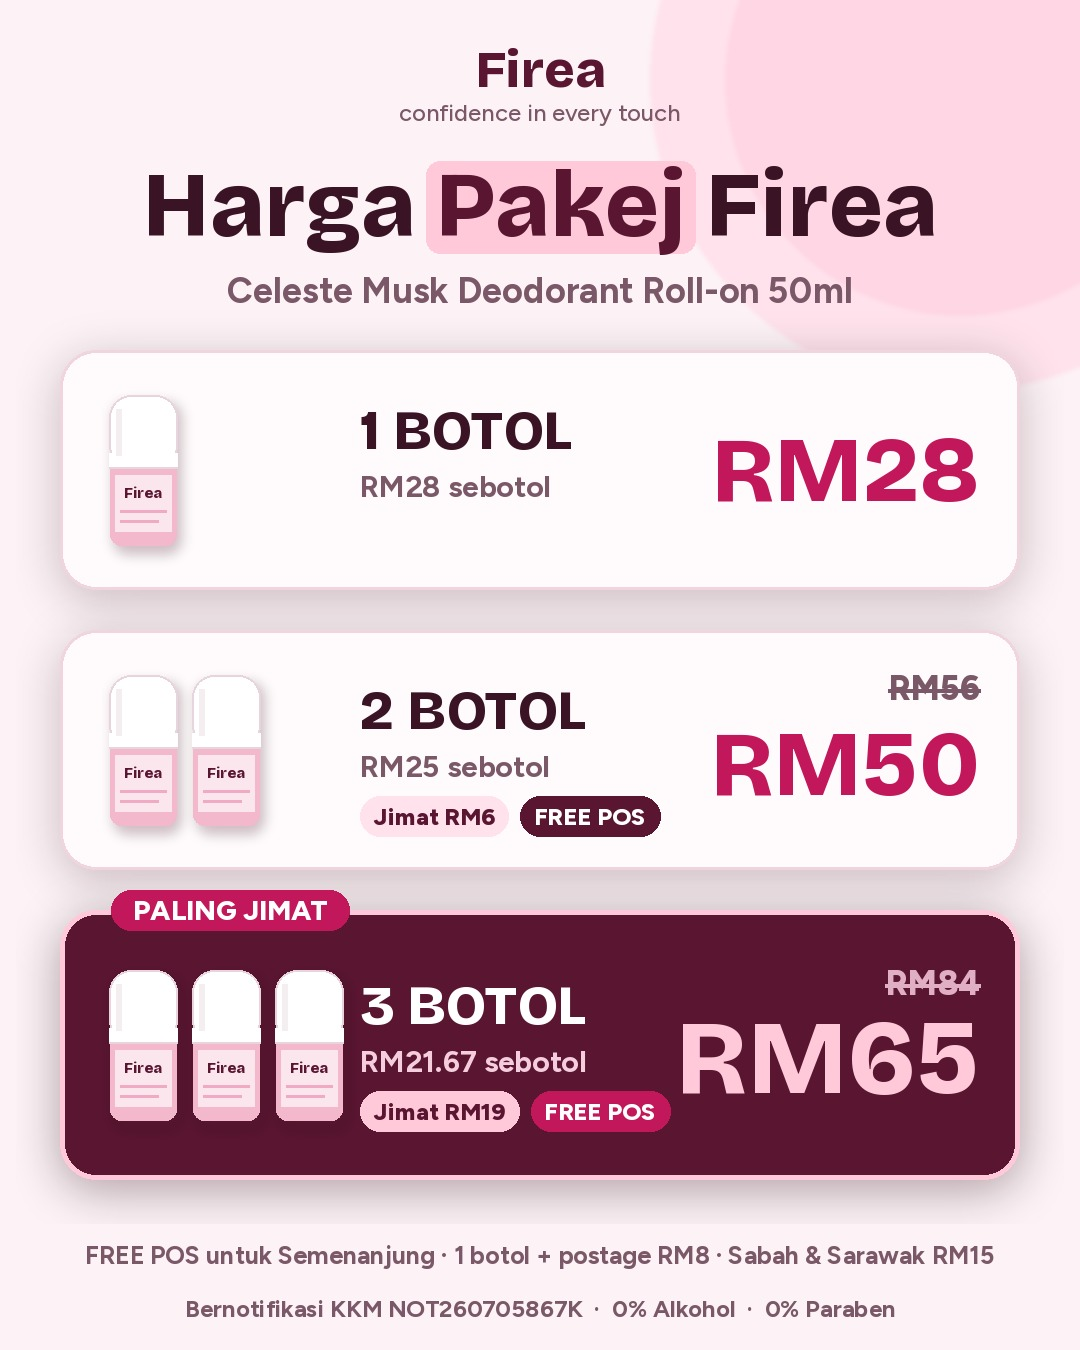
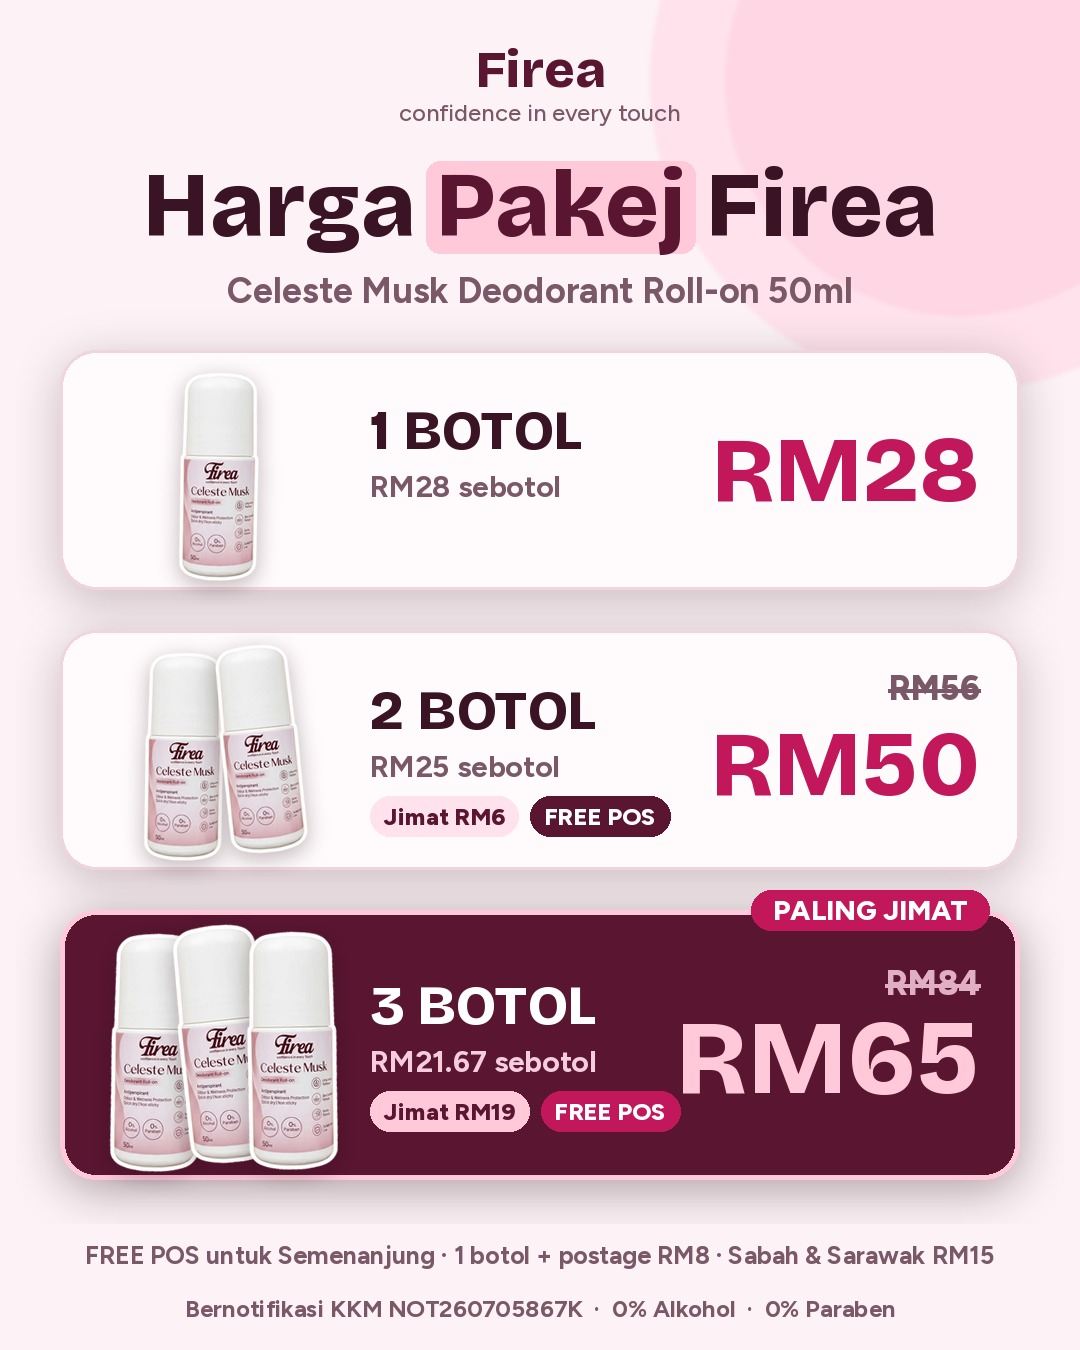
Use real bottle cutout on Firea price poster
Claude-Session: https://claude.ai/code/session_01FgdAy58wajktQYLn5mzK8A

diff --git a/firea/posters/make_posters.py b/firea/posters/make_posters.py
@@ -228,12 +228,16 @@ def poster_harga_sahaja():
         cd.rounded_rectangle((0, 0, card.width - 1, h - 1), 36, fill=bgc + (255,), outline=(PETAL if feat else (240, 213, 223)) + (255,), width=5 if feat else 3)
         shadow_paste(base, card, (x0, y), op=90 if feat else 60)
         # botol
-        bh = 150; bw = int(bh * 0.46); gap = 14
-        bx = x0 + 50; by = y + (h - bh) // 2
+        bh = h - 30
+        bot = Image.open(os.path.join(IMG, "botol-cutout.png")).convert("RGBA")
+        bot = bot.resize((int(bot.width * bh / bot.height), bh), Image.LANCZOS)
+        step = {1: 0, 2: 78, 3: 70}[n]
+        bx = x0 + 40 + (0 if n == 3 else (70 if n == 1 else 35)); by = y + (h - bh) // 2 + 4
         for k in range(n):
-            draw_bottle(base, bx + k * (bw + gap), by, bh)
+            b = bot.rotate((-4, 3, -2)[k], resample=Image.BICUBIC, expand=True)
+            shadow_paste(base, b, (bx + k * step, by - (8 if k == 1 else 0)), blur=10, off=6, op=70)
         # teks
-        tx = x0 + 300
+        tx = x0 + 310
         nc, sc, pc = (WHITE, (245, 205, 220), PETAL) if feat else (INK, MUTED, ROSE)
         text(d, (tx, y + h / 2 - 40), name, F("Bricolage800", 56), nc, "lm")
         text(d, (tx, y + h / 2 + 16), per, F("Figtree700", 30), sc, "lm")
@@ -251,7 +255,7 @@ def poster_harga_sahaja():
             d.text((ox, oy), old, font=fo, fill=(225, 175, 195) if feat else MUTED, anchor="lm")
             d.line((ox, oy + 2, ox + ow, oy + 2), fill=(225, 175, 195) if feat else MUTED, width=4)
         if feat:
-            pill(d, x0 + 170, y, "PALING JIMAT", F("Figtree800", 28), ROSE, WHITE, 22, 10)
+            pill(d, x1 - 150, y, "PALING JIMAT", F("Figtree800", 28), ROSE, WHITE, 22, 10)
         y += h + 40
     text(d, (W / 2, 1255), "FREE POS untuk Semenanjung · 1 botol + postage RM8 · Sabah & Sarawak RM15", F("Figtree700", 25), MUTED, "mm")
     footer(base)
